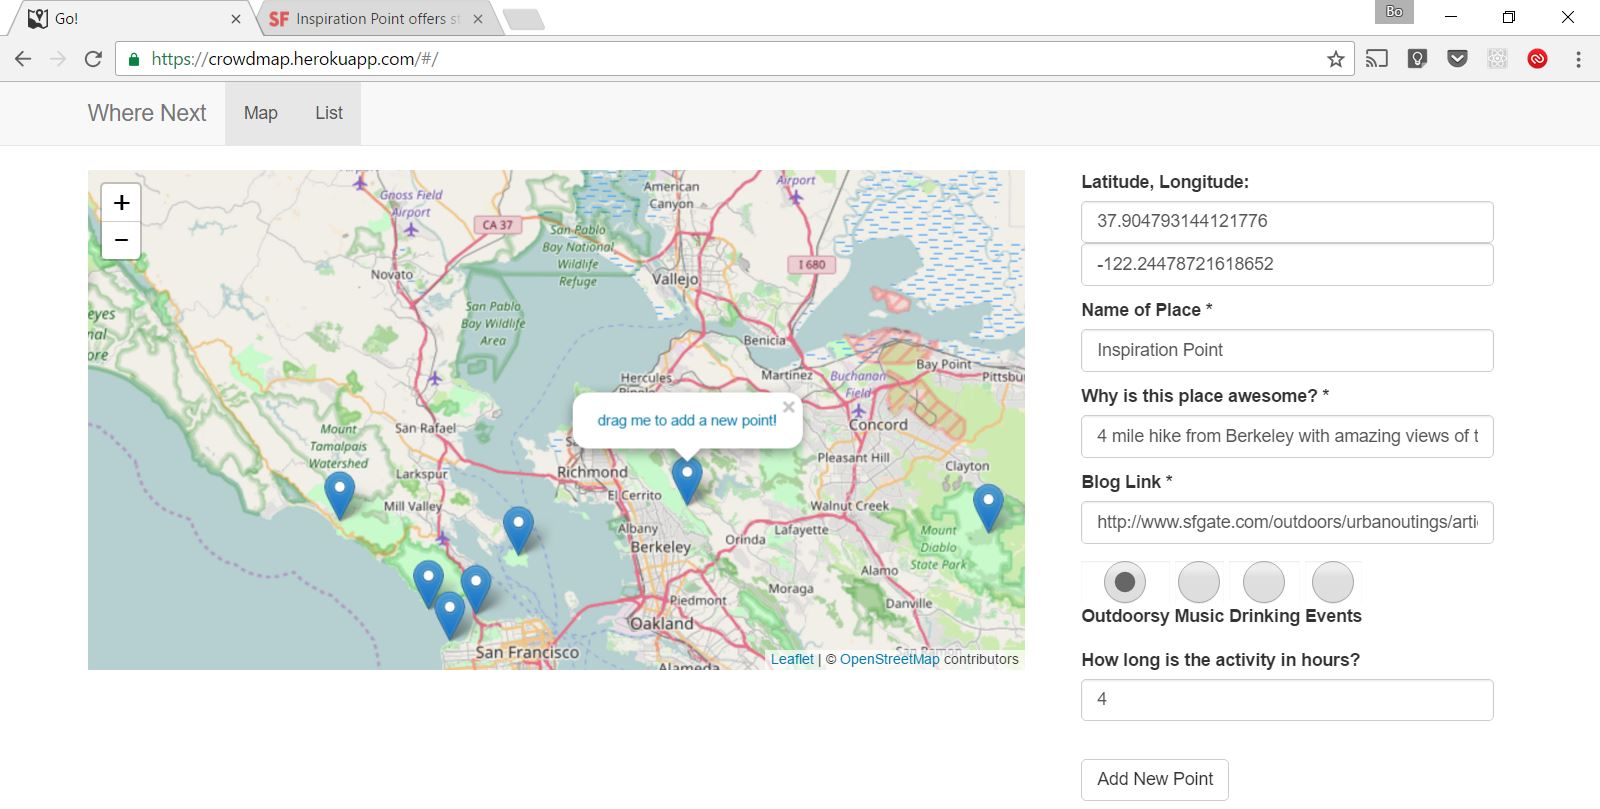
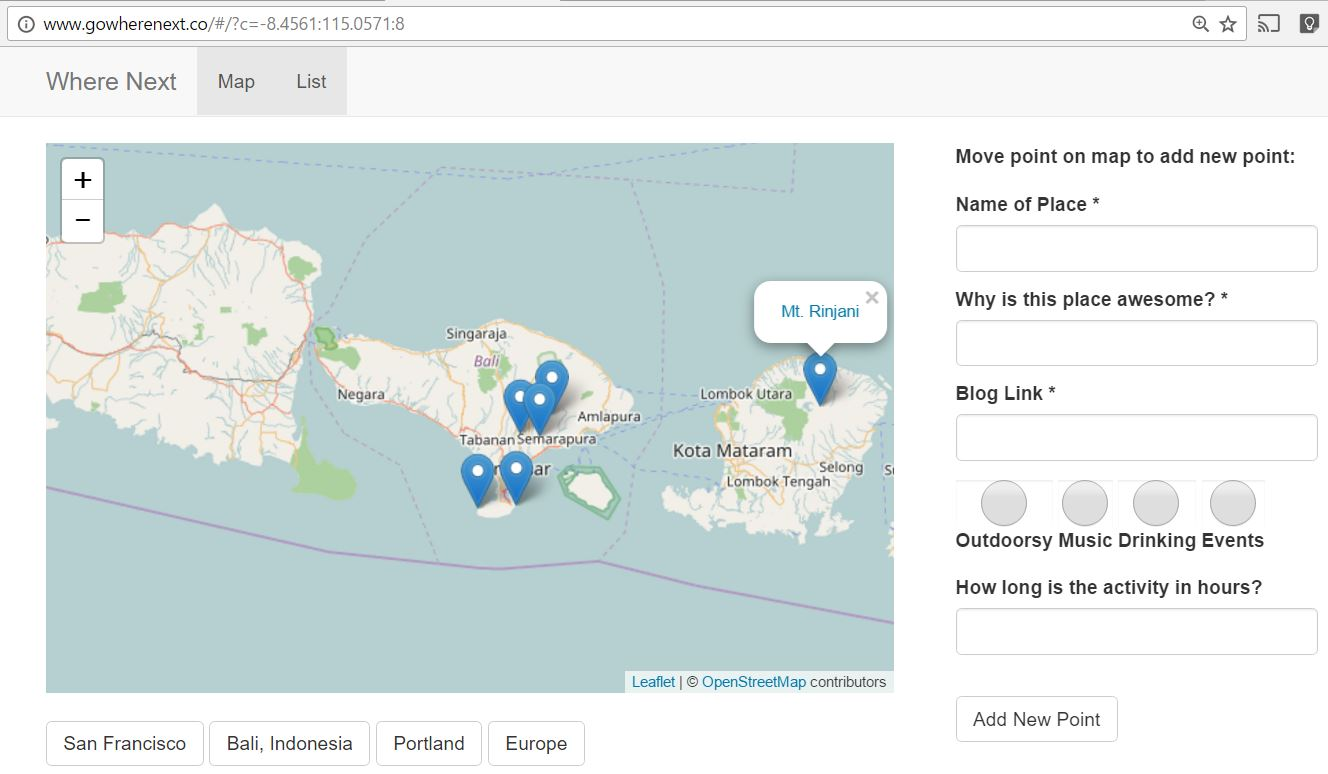
blog updates

diff --git a/_posts/2016-12-19-wiki-blogger.md b/_posts/2016-12-19-wiki-blogger.md
@@ -16,7 +16,7 @@ After hearing the presentation on the Maize App, I realized mocking up my idea w
 
 Additionally, I figured out how to host on Heroku and instantly show new data once submitted. Check it out.. you just move the marker where you want to add a point and put the details in with it:
 
-<a href="https://crowdmap.herokuapp.com/">![]({{ site.baseurl }}/images/inspirationpoint.JPG)</a>
+<a href="http://www.gowherenext.co/">![]({{ site.baseurl }}/images/inspirationpoint.JPG)</a>
 *Here's screenshot of the site. Click on the picture to go check it out*
 
 Feel free to reach out if you have any suggestions. I'm working on adding filtering and voting buttons to help find the best content.
